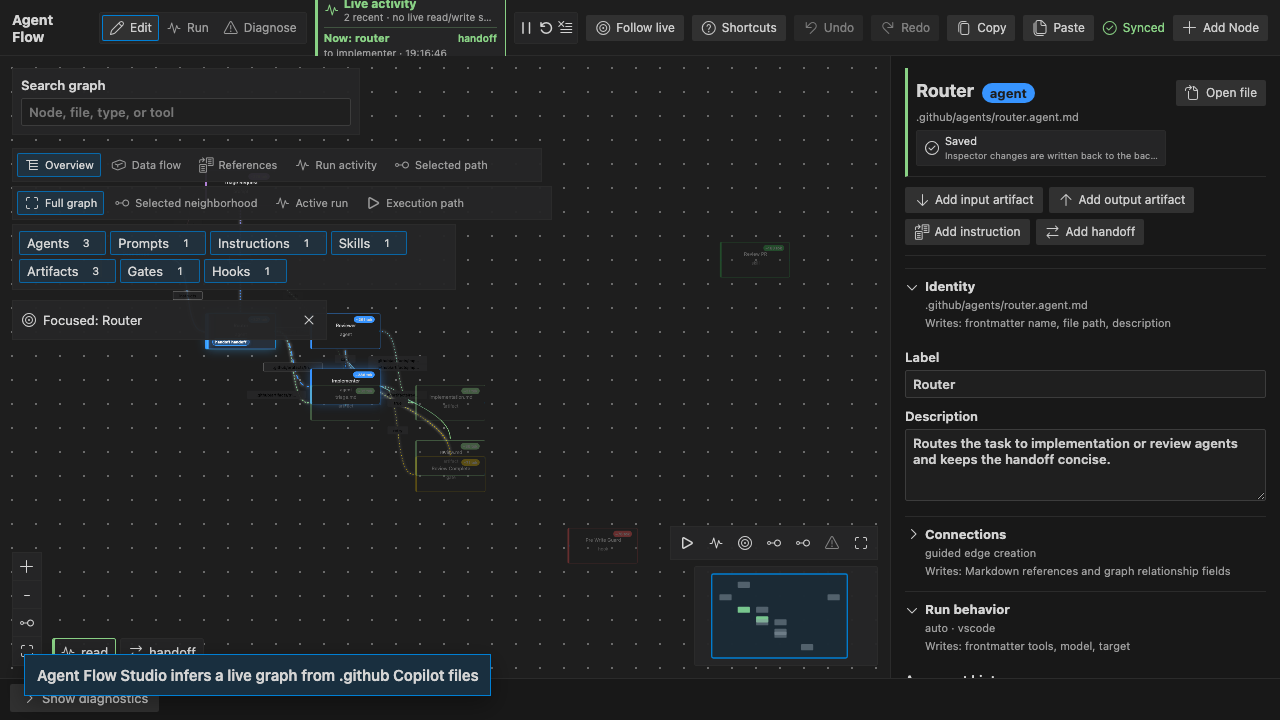
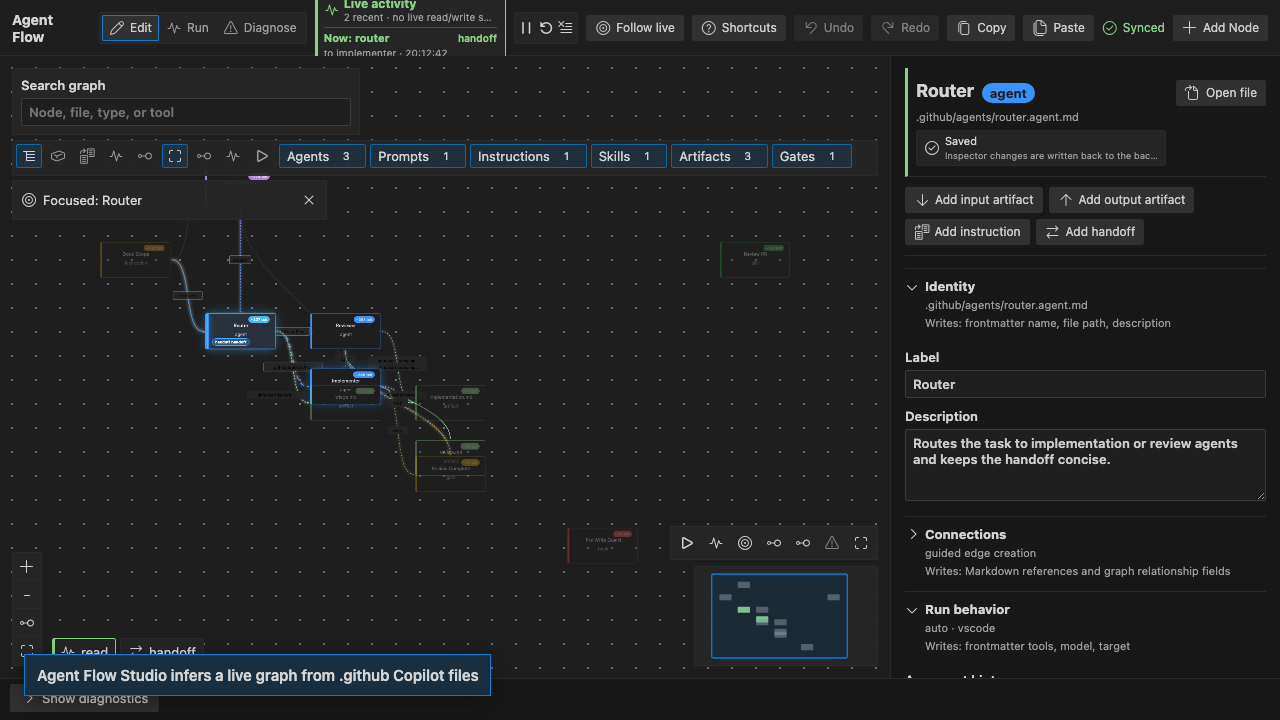
Improve initial graph viewport readability

diff --git a/test/meaningfulFlow.test.ts b/test/meaningfulFlow.test.ts
@@ -1,6 +1,6 @@
 import { describe, expect, it } from 'vitest';
 import { createDefaultPipeline } from '../src/pipeline/defaultPipeline';
-import { meaningfulFlowNodeIds } from '../src/webview/meaningfulFlow';
+import { initialViewportNodeIds, meaningfulFlowNodeIds } from '../src/webview/meaningfulFlow';
 import type { AgentPipeline } from '../src/pipeline/types';
 
 describe('meaningful graph flow', () => {
@@ -29,5 +29,28 @@ describe('meaningful graph flow', () => {
     };
 
     expect(meaningfulFlowNodeIds(pipeline)).toEqual(['artifact-result', 'guidelines']);
+  });
+
+  it('uses the meaningful flow for the first viewport when support nodes are also visible', () => {
+    const pipeline = createDefaultPipeline();
+    const visibleNodeIds = pipeline.nodes.map((node) => node.id);
+
+    expect(initialViewportNodeIds(pipeline, visibleNodeIds)).toEqual([
+      'start-implementation',
+      'router',
+      'implementer',
+      'reviewer',
+      'fixer',
+      'router-handoff-hand-off-to-implementer',
+      'implementer-handoff-hand-off-to-reviewer',
+      'reviewer-handoff-hand-off-to-fixer'
+    ]);
+  });
+
+  it('keeps the full visible set when only meaningful nodes are visible already', () => {
+    const pipeline = createDefaultPipeline();
+    const visibleNodeIds = meaningfulFlowNodeIds(pipeline);
+
+    expect(initialViewportNodeIds(pipeline, visibleNodeIds)).toEqual(visibleNodeIds);
   });
 });

diff --git a/src/webview/main.tsx b/src/webview/main.tsx
@@ -51,7 +51,7 @@ import { applyDiagnosticQuickFix } from './diagnosticQuickFixes';
 import { edgeReadingLevelClass, graphReadingLevels, nodeReadingLevelClass, type GraphReadingLevel } from './graphReadingLevels';
 import { edgeVisualPriorityClass, nodeVisualPriorityClass } from './visualPriority';
 import { isDefaultSamplePipeline } from './firstRunGuide';
-import { meaningfulFlowNodeIds } from './meaningfulFlow';
+import { initialViewportNodeIds, meaningfulFlowNodeIds } from './meaningfulFlow';
 
 interface State {
   stateVersion: number;
@@ -631,11 +631,15 @@ function FlowApp({ state, draft, selected, selectedId, nodes, edges, activeNodeI
   const fitViewport = useCallback(() => {
     const rect = canvasRef.current?.getBoundingClientRect();
     if (!rect || rect.width < 20 || rect.height < 20 || !visibleNodes.length) return;
-    const next = fitNativeGraphViewport(graphBounds, rect);
+    const initialViewportIds = new Set(initialViewportNodeIds(draft, visibleNodes.map((item) => item.id)));
+    const initialViewportNodes = visibleNodes.filter((node) => initialViewportIds.has(node.id));
+    const next = lastFitSignature.current
+      ? fitNativeGraphViewport(graphBounds, rect)
+      : fitGraphNodesViewport(initialViewportNodes, viewportRef.current, rect);
     lastFitSignature.current = flowNodeSignature;
     userViewportInteracted.current = false;
     setGraphViewport(next);
-  }, [flowNodeSignature, graphBounds, setGraphViewport, visibleNodes.length]);
+  }, [draft, flowNodeSignature, graphBounds, setGraphViewport, visibleNodes]);
 
   useEffect(() => {
     const report = (reason: string) => {

diff --git a/src/webview/meaningfulFlow.ts b/src/webview/meaningfulFlow.ts
@@ -6,3 +6,10 @@ export function meaningfulFlowNodeIds(pipeline: AgentPipeline): string[] {
   const primary = pipeline.nodes.filter((node) => primaryMeaningfulFlowTypes.has(node.type)).map((node) => node.id);
   return primary.length ? primary : pipeline.nodes.map((node) => node.id);
 }
+
+export function initialViewportNodeIds(pipeline: AgentPipeline, visibleNodeIds: readonly string[]): string[] {
+  const visible = new Set(visibleNodeIds);
+  const meaningfulVisible = meaningfulFlowNodeIds(pipeline).filter((nodeId) => visible.has(nodeId));
+  if (!meaningfulVisible.length) return [...visibleNodeIds];
+  return meaningfulVisible.length === visibleNodeIds.length ? [...visibleNodeIds] : meaningfulVisible;
+}

diff --git a/CHANGELOG.md b/CHANGELOG.md
@@ -2,6 +2,7 @@
 
 ## Unreleased
 
+- Prioritize the meaningful starter flow when auto-fitting the first graph viewport so default pipelines open at a readable scale.
 - Shorten the VS Code smoke-test user-data and extensions paths so `npm run test:smoke` stays reliable from deep checkout directories on macOS.
 - Make materialized handoff nodes read-only graph projections that use standard node sizing, open the source agent routing editor on click, and no longer appear in the Add Node palette.
 - Refresh the README and Marketplace preview media to show the current graph controls, activity HUD, inspector, node creation flow, and diagnostics surface.

diff --git a/README.md b/README.md
@@ -24,6 +24,7 @@ The extension does not execute pipelines, call Copilot agents, read private Copi
 
 ## Next Release Highlights
 
+- The first graph open now frames the meaningful starter flow before secondary support nodes so default pipelines read clearly at a glance.
 - Handoff nodes now match the standard node size in the graph and open their source agent instead of exposing a separate editable inspector.
 - The Add Node palette creates persisted node types only; handoffs are managed from agent frontmatter.
 - The configuration inspector and diagnostics panel can be resized for long Copilot debug logs, validation lists, and dense routing forms.